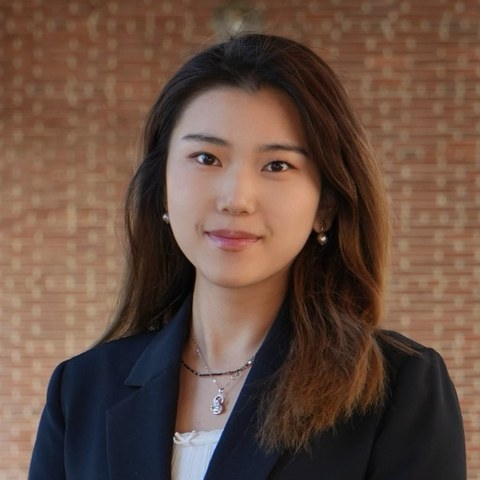
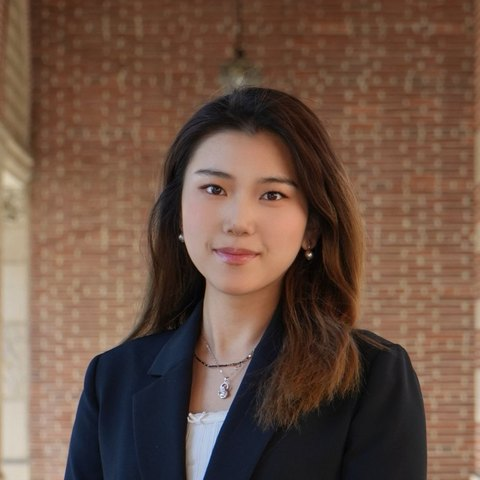
Back to the original photo and framing

diff --git a/admin.html b/admin.html
@@ -134,7 +134,7 @@ function profileTab() {
   const p = D.profile || (D.profile = defaultProfile());
   const f = (k, label, ph, wide) => '<label' + (wide ? ' class="wide"' : '') + '>' + label + '<input data-p="' + k + '" placeholder="' + esc(ph || '') + '" value="' + esc(p[k]) + '"></label>';
   return '<p class="muted">This is the card at the top left of every professor\u2019s page, so they remember who you are at a glance.</p>' +
-    '<div class="block"><div class="wide row" style="gap:16px">' + '<img class="avatar" style="width:72px;height:72px" src="' + esc(!p.photo || p.photo === 'avatar.jpg' ? 'avatar.jpg?v=3' : p.photo) + '" alt="">' +
+    '<div class="block"><div class="wide row" style="gap:16px">' + '<img class="avatar" style="width:72px;height:72px" src="' + esc(!p.photo || p.photo === 'avatar.jpg' ? 'avatar.jpg?v=4' : p.photo) + '" alt="">' +
     '<span class="muted">Your photo is avatar.jpg on the site. To use a different one, paste a link to a square photo below.</span></div>' +
     f('photo', 'Photo link', 'https://...', true) + f('name', 'Name') + f('email', 'Email') + f('major', 'Major', '', true) + f('classOf', 'Class', 'Class of 2027') + f('website', 'Website', 'https://...') + f('linkedin', 'LinkedIn', 'https://www.linkedin.com/in/...') + f('github', 'GitHub', 'https://github.com/...') + '</div>';
 }

diff --git a/index.html b/index.html
@@ -99,7 +99,7 @@ function render() {
 
   const pf = Object.assign({}, DEFAULT_PROFILE, P.profile || {});
   Object.keys(DEFAULT_PROFILE).forEach(k => { if (pf[k] === undefined || pf[k] === null) pf[k] = DEFAULT_PROFILE[k]; });
-  if (!pf.photo || pf.photo === 'avatar.jpg') pf.photo = 'avatar.jpg?v=3';
+  if (!pf.photo || pf.photo === 'avatar.jpg') pf.photo = 'avatar.jpg?v=4';
   if (!pf.major && pf.tagline) pf.major = pf.tagline;
   const name = pf.name || P.student || 'Lily';
   const initials = name.replace(/\(.*?\)/g, '').trim().split(/\s+/).map(w => w[0]).join('').slice(0, 2).toUpperCase();
